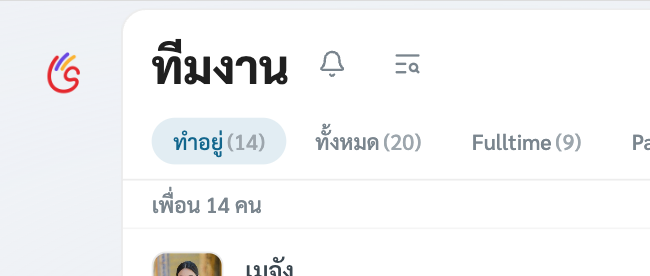
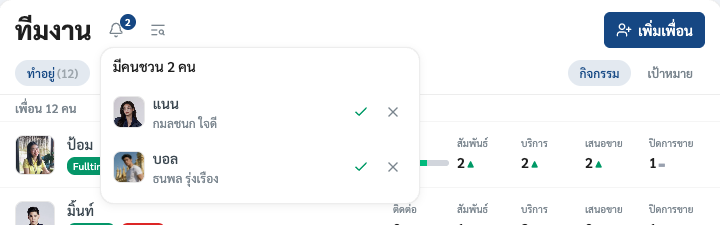
docs: capture last 7 manual screenshots (83/83) + friend-request menu retake
- ai: search-results, policy-confirm-card, birthday-card-example,
  add-customer-avatar-confirm (real local AI chat, cards never confirmed)
- team: add-friend-request-bell; manage-friends-requests retaken with menu open
- settings ai-key/oauth PNGs landed in 37ad10e
- bell badge is not red: wording now "ตัวเลขจำนวนคำขอ"
- SCREENSHOTS.md and ai-plan/manual-screenshots.md updated

diff --git a/SCREENSHOTS.md b/SCREENSHOTS.md
@@ -1,6 +1,6 @@
 # รายการ screenshot ที่ต้อง capture สำหรับคู่มือ
 
-อัปเดต: 2026-10-17 · ทั้งหมด **73 จุด** · ✅ = capture แล้ว (ตอนนี้ 65 จุด: start 4/4 · daily 6/6 · customers 24/24 · ai 2/6 · export-ai 2/2 · import-ai 1/1 · import-export 1/1 · package 4/4 · sales 4/4 · settings 4/6 · team 13/15)
+อัปเดต: 2026-11-15 · ✅ = capture แล้ว · **ทุกจุดในหน้าเอกสาร capture ครบแล้ว (83/83)** — ตารางนี้ยังไม่มี 10 แถวที่เพิ่มรอบ 2026-11-15 ดูรายการเต็มที่ `ai-plan/manual-screenshots.md`
 
 ## วิธีส่งรูป
 
@@ -15,12 +15,12 @@
 
 | ชื่อไฟล์ | ต้อง capture อะไร | เตรียมหน้าจอยังไง | หน้าที่ใช้ |
 |---|---|---|---|
-| `ai/add-customer-avatar-confirm` | แชทแนบรูปถ่ายลูกค้าพร้อมการ์ดยืนยันการเปลี่ยนรูปโปรไฟล์ | แนบรูปถ่ายคนและพิมพ์เพิ่มลูกค้าใหม่ในแชท ให้เห็นแถวยืนยันว่าเพิ่มลูกค้าแล้ว และการ์ดยืนยันการเปลี่ยนรูปโปรไฟล์ | `ai/add-customer` |
+| ✅ `ai/add-customer-avatar-confirm` | แชทแนบรูปถ่ายลูกค้าพร้อมการ์ดยืนยันการเปลี่ยนรูปโปรไฟล์ | แนบรูปถ่ายคนและพิมพ์เพิ่มลูกค้าใหม่ในแชท ให้เห็นแถวยืนยันว่าเพิ่มลูกค้าแล้ว และการ์ดยืนยันการเปลี่ยนรูปโปรไฟล์ | `ai/add-customer` |
 | ✅ `ai/assistant-add-policy-modal` | หน้าต่างเพิ่มกรมธรรม์ผ่านผู้ช่วย AI ที่ลากไฟล์มาวางได้ | เปิดจากหน้าลูกค้า > เพิ่มกรมธรรม์ ให้เห็นหน้าต่างลากไฟล์พร้อมตัวเลือกกรอกข้อมูลเอง | `ai/assistant` |
 | ✅ `ai/assistant-overview` | หน้าผู้ช่วย AI แสดงรายการสนทนาด้านซ้าย บทสนทนาตรงกลาง และกล่องพิมพ์ข้อความด้านล่าง | เปิดหน้าผู้ช่วย AI ที่มีบทสนทนาตัวอย่างสั้น ๆ อยู่ 1–2 ข้อความ ให้เห็นทั้งรายการสนทนา บทสนทนา และกล่องพิมพ์ | `ai/assistant` |
-| `ai/birthday-card-example` | ตัวอย่างการ์ดอวยพรวันเกิดที่ AI สร้างในแชท พร้อมปุ่มดาวน์โหลดรูปภาพ | ขอการ์ดวันเกิดให้ลูกค้า 1 คนในแชท ให้เห็นรูปการ์ดในแชทและลิงก์ดาวน์โหลด | `ai/birthday-card` |
-| `ai/policy-confirm-card` | การ์ดยืนยันการสร้างกรมธรรม์ในแชท สรุปข้อมูลที่ AI ถอดจากไฟล์ | แนบไฟล์กรมธรรม์แล้วให้เห็นการ์ดยืนยันการสร้างกรมธรรม์ พร้อมปุ่มยืนยันสร้างและยกเลิก | `ai/policy-from-file` |
-| `ai/search-results` | แชทค้นหาลูกค้าด้วย AI พร้อมการ์ดผลลัพธ์การค้นหา | พิมพ์คำถามค้นหา เช่น หาลูกค้าชื่อพล ให้เห็นชิปสถานะระหว่างทำงานและการ์ดผลลัพธ์ย่อของลูกค้าในแชท | `ai/search` |
+| ✅ `ai/birthday-card-example` | ตัวอย่างการ์ดอวยพรวันเกิดที่ AI สร้างในแชท พร้อมปุ่มดาวน์โหลดรูปภาพ | ขอการ์ดวันเกิดให้ลูกค้า 1 คนในแชท ให้เห็นรูปการ์ดในแชทและลิงก์ดาวน์โหลด | `ai/birthday-card` |
+| ✅ `ai/policy-confirm-card` | การ์ดยืนยันการสร้างกรมธรรม์ในแชท สรุปข้อมูลที่ AI ถอดจากไฟล์ | แนบไฟล์กรมธรรม์แล้วให้เห็นการ์ดยืนยันการสร้างกรมธรรม์ พร้อมปุ่มยืนยันสร้างและยกเลิก | `ai/policy-from-file` |
+| ✅ `ai/search-results` | แชทค้นหาลูกค้าด้วย AI พร้อมการ์ดผลลัพธ์การค้นหา | พิมพ์คำถามค้นหา เช่น หาลูกค้าชื่อพล ให้เห็นชิปสถานะระหว่างทำงานและการ์ดผลลัพธ์ย่อของลูกค้าในแชท | `ai/search` |
 
 ## ลูกค้า
 
@@ -106,8 +106,8 @@
 | ✅ `settings/auth-methods-page` | หน้าตั้งค่าวิธีเข้าสู่ระบบแสดงสถานะความปลอดภัย การ์ดรหัสผ่าน และการ์ด Google | เปิดหน้าตั้งค่า > วิธีเข้าสู่ระบบ ให้เห็นข้อความสถานะด้านบนและการ์ดทั้งสองใบ | `settings/auth-methods` |
 | ✅ `settings/overview-menu` | หน้าตั้งค่าของ SolidPlan แสดงเมนูย่อยทั้งหมด | เปิดหน้าตั้งค่าให้เห็นเมนูย่อยครบทุกหมวด ข้อมูล แพ็คเกจ AI ยืนยันตัวตน และข้อมูลของคุณ | `settings/overview` |
 | ✅ `settings/profile-form` | หน้าตั้งค่าข้อมูลส่วนตัวแสดงรูปโปรไฟล์และฟิลด์ทั้งหมด | เปิดหน้าตั้งค่า > ข้อมูลส่วนตัว ให้เห็นรูปโปรไฟล์ ชื่อ-สกุล ชื่อเรียก วันเกิด อีเมล เบอร์โทร และภาษา | `settings/profile` |
-| `settings/ai-key-page` | หน้าตั้งค่า เชื่อมต่อผ่าน Key แสดงรายการ Key ปุ่มเพิ่ม Key และการ์ด URL สำหรับ MCP | เปิดหน้าตั้งค่า > เชื่อมต่อผ่าน Key ให้เห็นรายการ Key และการ์ด URL สำหรับ MCP ชัดเจน | `settings/ai-connections` |
-| `settings/ai-oauth-page` | หน้าตั้งค่า เชื่อมต่อผ่าน OAuth แสดงรายการแอป AI ที่อนุมัติพร้อมปุ่มเพิกถอน | เปิดหน้าตั้งค่า > เชื่อมต่อผ่าน OAuth ให้เห็นรายการแอปที่อนุมัติ (หรือสถานะว่าง) และปุ่มเพิกถอน | `settings/ai-connections` |
+| ✅ `settings/ai-key-page` | หน้าตั้งค่า เชื่อมต่อผ่าน Key แสดงรายการ Key ปุ่มเพิ่ม Key และการ์ด URL สำหรับ MCP | เปิดหน้าตั้งค่า > เชื่อมต่อผ่าน Key ให้เห็นรายการ Key และการ์ด URL สำหรับ MCP ชัดเจน | `settings/ai-connections` |
+| ✅ `settings/ai-oauth-page` | หน้าตั้งค่า เชื่อมต่อผ่าน OAuth แสดงรายการแอป AI ที่อนุมัติพร้อมปุ่มเพิกถอน | เปิดหน้าตั้งค่า > เชื่อมต่อผ่าน OAuth ให้เห็นรายการแอปที่อนุมัติ (หรือสถานะว่าง) และปุ่มเพิกถอน | `settings/ai-connections` |
 | ✅ `settings/receipt-form` | ฟอร์มข้อมูลสำหรับออกใบเสร็จรับเงินในหน้าตั้งค่าใบเสร็จ | เปิดหน้าตั้งค่า > ตั้งค่าใบเสร็จ ให้เห็นหัวฟอร์มข้อมูลสำหรับออกใบเสร็จรับเงินและปุ่มบันทึก | `settings/receipt` |
 
 ## เริ่มที่นี่
@@ -124,7 +124,7 @@
 | ชื่อไฟล์ | ต้อง capture อะไร | เตรียมหน้าจอยังไง | หน้าที่ใช้ |
 |---|---|---|---|
 | ✅ `team/add-friend-dialog` | ปุ่มเพิ่มเพื่อนมุมขวาบนของหน้าทีมงานและหน้าต่างเพิ่มเพื่อนที่เปิดออก | กดปุ่มเพิ่มเพื่อนที่หน้าทีมงาน ให้เห็นหน้าต่างพร้อมทั้ง 2 แท็บ (อีเมล และทีมโค้ด) | `team/add-friend` |
-| `team/add-friend-request-bell` | ไอคอนกระดิ่งแจ้งคำขอเป็นเพื่อนพร้อมตัวเลขแดงที่หัวหน้าทีมงาน | มีคำขอเป็นเพื่อนค้างอยู่อย่างน้อย 1 รายการ ให้เห็นตัวเลขแดงบนไอคอนกระดิ่ง | `team/add-friend` |
+| ✅ `team/add-friend-request-bell` | ไอคอนกระดิ่งแจ้งคำขอเป็นเพื่อนพร้อมตัวเลขจำนวนคำขอที่หัวหน้าทีมงาน | มีคำขอเป็นเพื่อนค้างอยู่อย่างน้อย 1 รายการ ให้เห็นตัวเลขจำนวนคำขอบนไอคอนกระดิ่ง | `team/add-friend` |
 | ✅ `team/add-friend-team-code` | หน้าตั้งค่าโค้ดสร้างทีมแสดงทีมโค้ดของคุณ | เปิดหน้าตั้งค่า > โค้ดสร้างทีม ให้เห็นทีมโค้ดรูปแบบ SP-XXXXXXXX ชัดเจน | `team/add-friend` |
 | ✅ `team/agent-profile-private` | สวิตช์เปิดปิดโหมดส่วนตัวในหน้าข้อมูล Agent | ให้เห็นสวิตช์โหมดส่วนตัวพร้อมข้อความอธิบายใต้ตัวเลือก | `team/agent-profile` |
 | ✅ `team/agent-profile-settings` | หน้าตั้งค่าข้อมูล Agent แสดงบริษัทต้นสังกัด ธีมสี สถานะ ระดับ ใบรับรอง และโหมดส่วนตัว | เปิดหน้าตั้งค่า > ข้อมูล Agent ให้เห็นทุกส่วนในหน้าเดียว | `team/agent-profile` |
@@ -132,7 +132,7 @@
 | ✅ `team/campaign-reward-tiers` | แถบความคืบหน้าระดับรางวัลการชวนเพื่อน | ให้เห็นแถบความคืบหน้าพร้อมข้อความบอกระดับถัดไป | `team/campaign` |
 | ✅ `team/campaign-team-code` | หน้าตั้งค่าโค้ดสร้างทีมแสดงทีมโค้ดและปุ่มแชร์ | เปิดหน้าตั้งค่า > โค้ดสร้างทีม ให้เห็นทีมโค้ดรูปแบบ SP-XXXXXXXX และปุ่มแชร์ | `team/campaign` |
 | ✅ `team/manage-friends-detail` | แผงรายละเอียดของเพื่อนแสดงสังกัด ผลงานกิจกรรม และกิจกรรมสัปดาห์นี้ | เลือกเพื่อน 1 คนจากรายชื่อซ้าย ให้แผงขวาแสดงข้อมูลครบทั้งสังกัดและตารางเทียบผลงาน | `team/manage-friends` |
-| `team/manage-friends-requests` | เมนูกระดิ่งแสดงรายการคำขอเป็นเพื่อนพร้อมรูปและชื่อผู้ส่งคำขอ | กดกระดิ่งที่หัวหน้าทีมงานเมื่อมีคำขอรออยู่ ให้เห็นหัวข้อมีคนชวน N คน และปุ่มติ๊กถูก/กากบาท | `team/manage-friends` |
+| ✅ `team/manage-friends-requests` | เมนูกระดิ่งแสดงรายการคำขอเป็นเพื่อนพร้อมรูปและชื่อผู้ส่งคำขอ | กดกระดิ่งที่หัวหน้าทีมงานเมื่อมีคำขอรออยู่ ให้เห็นหัวข้อมีคนชวน N คน และปุ่มติ๊กถูก/กากบาท | `team/manage-friends` |
 | ✅ `team/manage-friends-unfriend` | ปุ่มเลิกเป็นเพื่อนในแผงรายละเอียดของเพื่อน | เลือกเพื่อนแล้วให้เห็นไอคอนเลิกเป็นเพื่อน (รูปคนลบ) ที่แผงรายละเอียดขวา | `team/manage-friends` |
 | ✅ `team/org-hierarchy-settings` | หน้าตั้งค่าสังกัดแสดงหน่วยและกลุ่มที่คุณสังกัด | เปิดหน้าตั้งค่า > สังกัด ให้เห็นปุ่มเพิ่มหน่วย เพิ่มกลุ่ม และปุ่มบันทึก | `team/org-hierarchy` |
 | ✅ `team/overview-filters` | แถวตัวกรององค์กรและชิปด่วนบนหน้าทีมงาน | กดปุ่มตัวกรององค์กรให้แถวเลือกสำนักงาน/ทีม/หน่วย/กลุ่มเปิดออก พร้อมชิปด่วนแถวบน | `team/overview` |

diff --git a/ai-plan/manual-screenshots.md b/ai-plan/manual-screenshots.md
@@ -165,8 +165,7 @@ Do #7 and #8 together, last, and restore the package and auto-select straight af
 3. Data-writing capture: A6, then clean up.
 4. Package-state captures: A7, A8, then restore the package and auto-select.
 
-Still blocked from earlier rounds (unchanged): the 4 chat-card slots, `team/add-friend-request-bell`,
-and `settings/ai-key-page` / `ai-oauth-page`. The last two are capturable anytime.
+The 7 slots blocked in earlier rounds were captured later the same day; see section E.
 
 ### D. How this round was captured (reuse next time)
 
@@ -191,7 +190,30 @@ and `settings/ai-key-page` / `ai-oauth-page`. The last two are capturable anytim
   closed the form and pressed it again to restore (verified). Now **76/83 captured**.
 - Import `files[]` entries accept `id`, `url`, `fileName`, `category` (not `name`).
 
-## Status (2026-10-17): 65/73 slots captured
+### E. Last 7 slots (2026-11-15, evening): 83/83 captured
+
+- **Chat cards** (`ai/search-results`, `ai/policy-confirm-card`, `ai/birthday-card-example`,
+  `ai/add-customer-avatar-confirm`) were made with the **real AI chat** on the local app. The
+  local build has the cards that dev lacked. Helper: type and send, attach files by
+  `DataTransfer` injection, then poll until `[data-testid=confirm-card]` appears or the
+  composer shows "พร้อม". Recapture later from `/ai-chat?c=<id>` with
+  `page.route('**/api/ai-chat/messages', abort)` so nothing can be sent or approved.
+  Hide the idle mascot with `.avatar-position{visibility:hidden}`.
+- Policy source file: a synthetic Thai policy table rendered to PNG by headless Chromium
+  (fictional insurer "บริษัท ตัวอย่างประกันชีวิต"). The card was never confirmed.
+- **Side effects that persist:** the birthday-card skill attaches the PNG to สมชาย สุขสม's files
+  (documented behaviour). The avatar flow **created a prospect "พี่แดง"** (create_customer runs
+  without a card), and the avatar card was left unconfirmed. There are also 5 test chat
+  conversations. Clean these up or keep them as demo data.
+- **Settings Key/OAuth** and **friend-request bell/menu**: the browser's GET responses were
+  replaced via `page.route` (`api/settings/api-keys`, `api/settings/mcp-connections`,
+  `api/friends/requests`) and every write was aborted. The MCP URL was swapped on screen
+  to `https://app.solidplan.ai/mcp`. No keys, connections or requests exist server-side.
+- `team/manage-friends-requests` was retaken with the menu open (the old crop had no menu).
+- The bell badge is **dark blue, not red**, so the docs now say "ตัวเลขจำนวนคำขอ". The source
+  `knowledge-for-manual/team/{add-friend,manage-friends}.md` still says ตัวเลขแดง.
+
+## Status (2026-10-17): 65/73 slots captured (historical)
 
 Open slots and their blockers:
 
